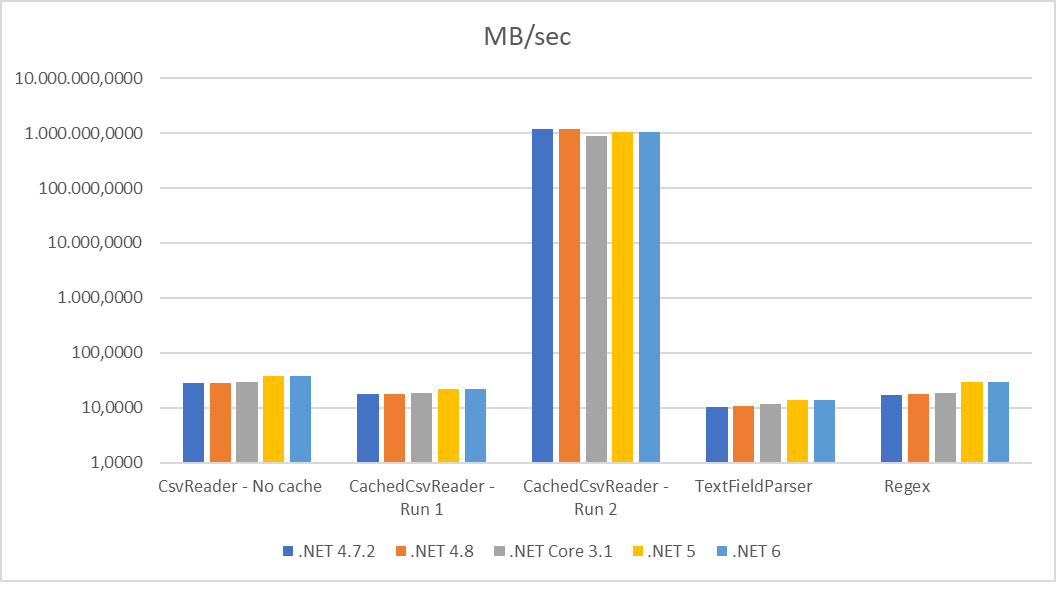
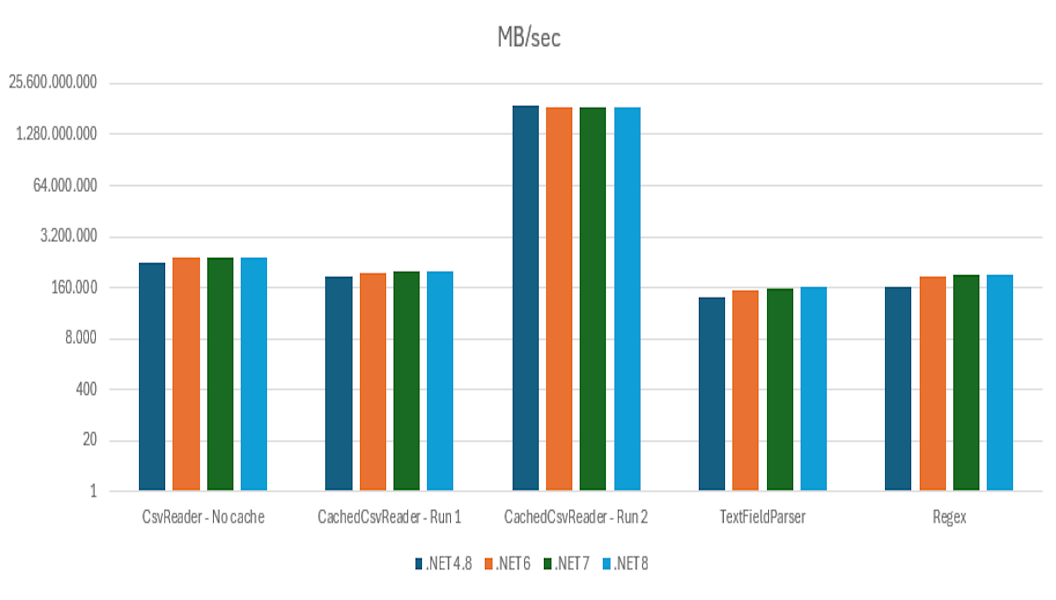
Updated performance test results

diff --git a/README.md b/README.md
@@ -249,64 +249,64 @@ Before calling this method you should define Columns passing names and data type
 ```
 
 ## Performance
-To give an idea of performance, this took a naive sample app using an ORM from 2m 27s to 1.37s using SBC and the full import took just over 11m to import 9.8m records.
+To give an idea of performance, this took a native sample app using an ORM from 2m 27s to 1.37s using SBC and the full import took just over 11m to import 9.8m records.
 
 One of the main reasons for using this library is its excellent performance on reading/parsing raw data, here's a recent run of the benchmark (which is in the source)
 
-|Test|.NET 4.7.2|.NET 4.8|.NET Core 3.1|.NET 5|.NET 6|
-|---|---|---|---|---|---|
+|Test|.NET 4.8|.NET 6|.NET 7|.NET 8|
+|---|---|---|---|---|
 Test pass #1 - All fields|
-CsvReader - No cache   |18.029|17.4115|18.6588|20.9881|19.8229
-CachedCsvReader - Run 1|15.8878|15.6856|16.4155|19.478|19.2338
-CachedCsvReader - Run 2|103700.2121|100227.7904|119402.9851|102923.9766|119532.7357
-TextFieldParser        |10.6325|10.7448|11.3845|13.3976|13.4799
-Regex                  |11.0006|11.2566|11.603|16.8422|16.6653
-|||||||
+CsvReader - No cache   |62.7333|80.1117|63.8059|37.0477
+CachedCsvReader - Run 1|35.5160|41.7880|38.2042|39.8874
+CachedCsvReader - Run 2|61426.7765|73999.3273|117302.0528|91973.2441
+TextFieldParser        |9.8574|13.9199|14.6264|16.4390
+Regex                  |10.2663|17.9696|18.1544|20.7676
+||||||
 Test pass #1 - Field #72 (middle)|
-CsvReader - No cache   |33.8842|34.4039|34.5182|48.3443|47.2414
-CachedCsvReader - Run 1|20.0675|20.0483|21.5359|24.4861|24.2664
-CachedCsvReader - Run 2|1647940.075|1325301.205|1050119.332|1148825.065|1170212.766
-TextFieldParser        |10.5588|10.8054|11.5507|13.6496|13.9692
-Regex                  |23.8385|24.2478|25.6357|40.7933|40.2386
-|||||||
+CsvReader - No cache   |67.7263|95.0044|86.0328|87.4732
+CachedCsvReader - Run 1|29.2253|36.9564|42.5468|44.7421
+CachedCsvReader - Run 2|792792.7928|646108.6637|512820.5128|639534.8837
+TextFieldParser        |9.9626|13.1838|14.5921|18.2339
+Regex                  |22.5060|37.9651|46.1343|50.7253
+||||||
 Test pass #2 - All fields|
-CsvReader - No cache   |23.7762|24.7155|24.7757|29.4928|29.2318
-CachedCsvReader - Run 1|15.4433|15.4299|16.2404|19.0609|18.7912
-CachedCsvReader - Run 2|1325301.205|1506849.315|1100000|1242937.853|1428571.429
-TextFieldParser        |9.4764|10.7936|11.583|13.7241|14.1607
-Regex                  |9.8131|11.3284|11.8905|17.1912|17.816
-|||||||
+CsvReader - No cache   |75.8756|88.6553|93.0768|109.0782
+CachedCsvReader - Run 1|28.8864|38.4666|45.3834|40.4266
+CachedCsvReader - Run 2|948275.8621|781527.5311|852713.1783|461699.8951
+TextFieldParser        |9.4858|13.8782|15.3555|17.4682
+Regex                  |9.6566|18.4976|20.6475|22.6479
+||||||
 Test pass #2 - Field #72 (middle)|
-CsvReader - No cache   |34.8114|34.8461|35.5218|49.8421|49.2037
-CachedCsvReader - Run 1|20.719|20.7746|21.8001|25.8437|25.2911
-CachedCsvReader - Run 2|1317365.27|1264367.816|1002277.904|1242937.853|1225626.741
-TextFieldParser        |10.3391|10.5819|11.5539|13.5875|14.1446
-Regex                  |23.8867|23.6028|25.0774|41.7542|40.7904
-|||||||
+CsvReader - No cache   |72.6275|98.7495|107.8248|111.1179
+CachedCsvReader - Run 1|28.4391|35.7626|36.8091|52.7800
+CachedCsvReader - Run 2|830188.6792|765217.3913|827067.6692|995475.1131
+TextFieldParser        |8.6734|14.6872|15.4038|18.2108
+Regex                  |22.1135|44.0567|46.4395|50.7668
+||||||
 Test pass #3 - All fields|
-CsvReader - No cache   |24.5748|24.0699|24.4865|29.4968|29.041
-CachedCsvReader - Run 1|14.6422|14.7653|16.7683|20.3806|18.0145
-CachedCsvReader - Run 2|1379310.345|1383647.799|1006864.989|1173333.333|1157894.737
-TextFieldParser        |10.7302|10.6394|11.5478|13.5921|14.2006
-Regex                  |11.0881|11.0249|11.4958|17.9792|17.6474
-|||||||
+CsvReader - No cache   |74.3428|90.2397|92.8137|111.8334
+CachedCsvReader - Run 1|30.5301|35.6446|43.8796|49.9862
+CachedCsvReader - Run 2|817843.8662|737018.4255|766550.5226|820895.5224
+TextFieldParser        |9.3366|14.4030|15.0148|17.9641
+Regex                  |10.1904|19.1660|20.0524|21.7854
+||||||
 Test pass #3 - Field #72 (middle)|
-CsvReader - No cache   |34.4315|35.0067|34.5559|50.7796|49.0471
-CachedCsvReader - Run 1|17.3084|19.1313|17.2032|21.462|23.9831
-CachedCsvReader - Run 2|1442622.951|1428571.429|1047619.048|1242937.853|1192411.924
-TextFieldParser        |10.7142|10.5523|11.5291|13.7035|14.1779
-Regex                  |23.3738|23.7406|25.1373|41.8325|41.2974
+CsvReader - No cache   |76.5840|104.5209|105.9584|113.8155
+CachedCsvReader - Run 1|35.5272|38.0744|43.4385|37.0724
+CachedCsvReader - Run 2|932203.3898|766550.5226|634005.7637|748299.3197
+TextFieldParser        |9.7928|14.4643|13.6437|17.7131
+Regex                  |22.5506|44.6435|45.5831|49.3559
 
 
 
-|Average of all test passes|.NET 4.7.2|.NET 4.8|.NET Core 3.1|.NET 5|.NET 6|
+|Average of all test passes|.NET 4.8|.NET Core 3.1|.NET 5|.NET 6|
 |---|---|---|---|---|---|
-CsvReader - No cache   |28.2512|28.4089|28.7528|38.1573|37.2647
-CachedCsvReader - Run 1|17.3447|17.6392|18.3272|21.7852|21.5967
-CachedCsvReader - Run 2|1.202.706.6762|1.168.160.8923|887.714.0429|1.025.649.3224|1.049.041.7220
-TextFieldParser        |10.4085|10.6862|11.5248|13.6091|14.0222
-Regex                  |17.1668|17.5335|18.4733|29.3988|29.0759
+CsvReader - No cache   |716.483|928.803|915.854|950.610
+CachedCsvReader - Run 1|313.540|377.821|417.103|441.491
+CachedCsvReader - Run 2|7.304.552.278|6.284.036.436|6.184.099.499|6.263.129.964
+TextFieldParser        |95.181|140.894|147.727|176.715
+Regex                  |162.139|303.831|328.352|360.082
 
-As you can see, an average performance slightly increases from full .NET Framework 4.7.2 to .NET Core 6.
+As you can see, an average performance slightly increases from full .NET Framework 4.8 to .NET Core 8.
 ![Performance Chart](AveragePerformanceChart.png)
 This was run on a Core i5-8400 (6 cores), 32Gb RAM and 2Tb SSD.
